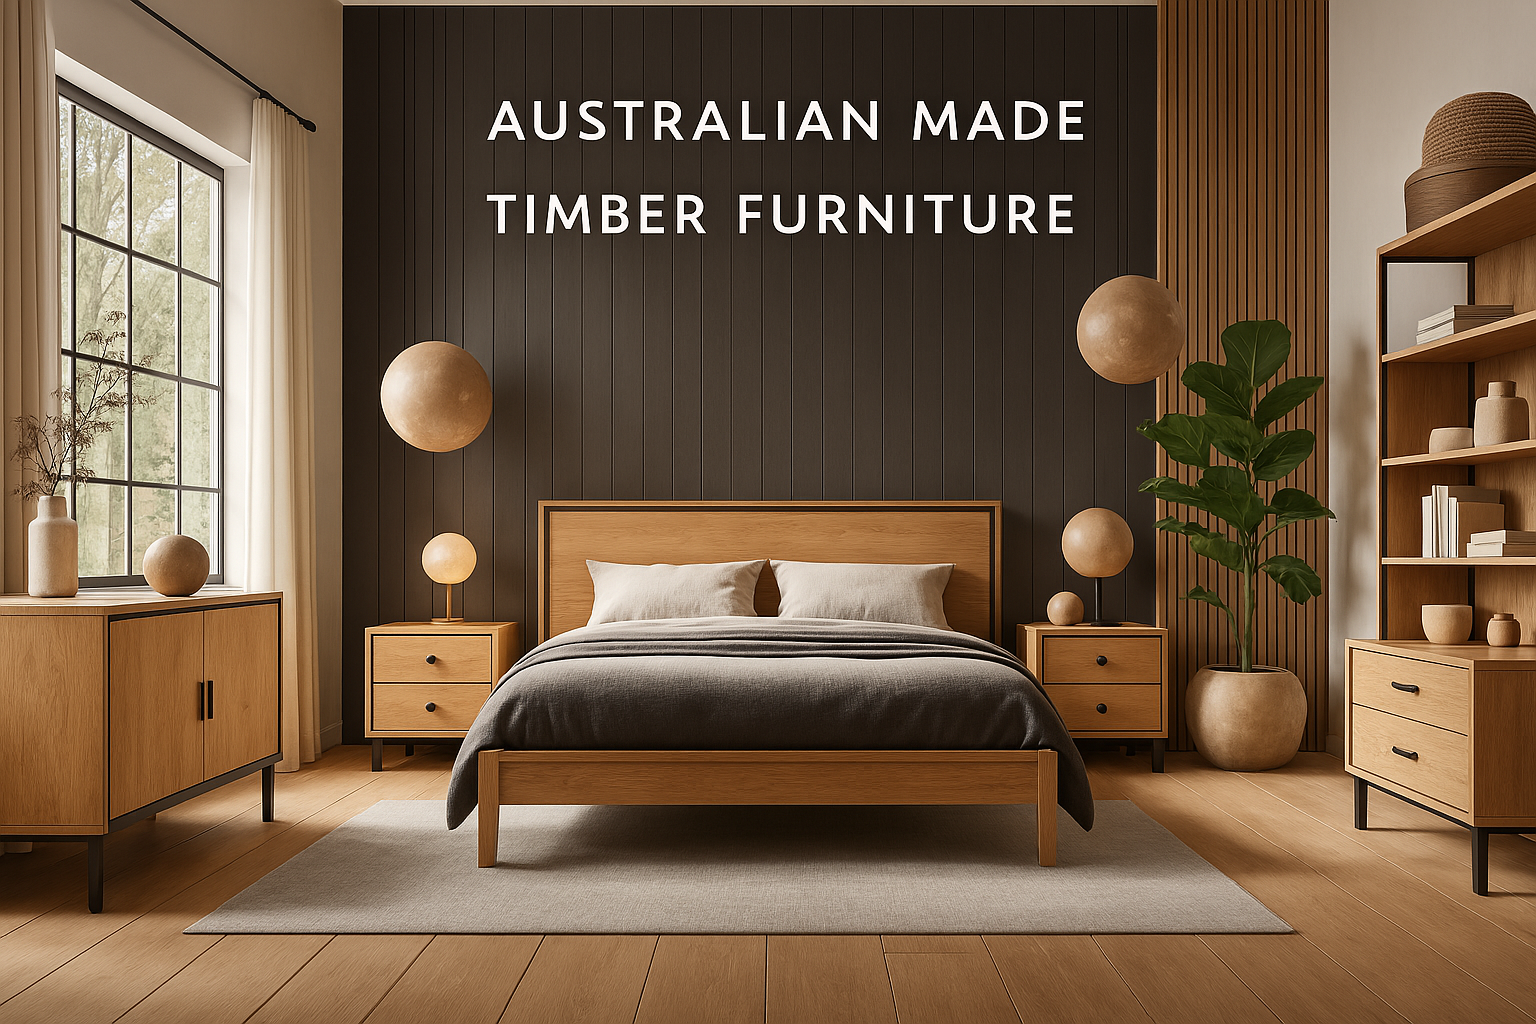
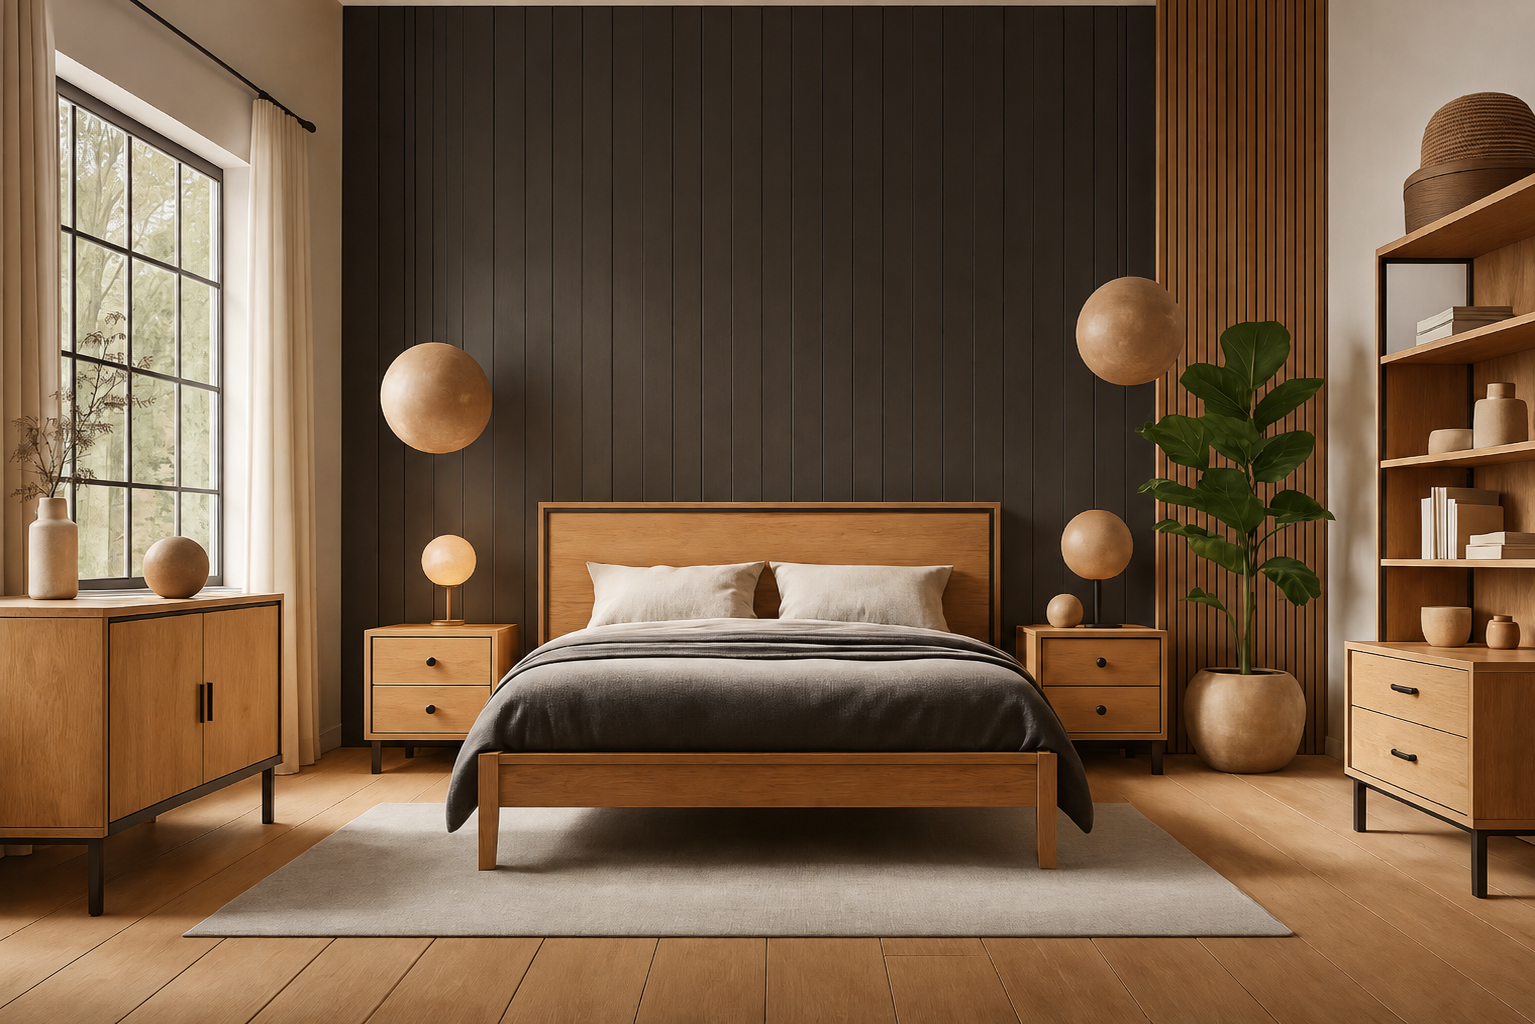
Use full hero image with reference crop

diff --git a/app/globals.css b/app/globals.css
@@ -25,7 +25,7 @@
 .confirmation-line{display:grid;grid-template-columns:120px 1fr auto;gap:24px;align-items:center;min-height:70px}.confirmation-line+ .confirmation-line{margin-top:20px}.confirmation-line img{width:120px;height:70px;object-fit:cover;border-radius:8px}.confirmation-line span{font-size:15px;font-weight:600;line-height:1.3}.confirmation-line strong{font-size:18px}.confirmation-total{display:flex;justify-content:space-between;align-items:center;margin:32px 0 22px;text-align:left;color:var(--secondary);font-size:16px}.confirmation-total strong{color:var(--ink);font-size:24px}.confirmation-card>.button{width:400px;max-width:100%;height:54px}.confirmation-page>h2{font-size:30px;margin:72px 0 28px;text-align:left}.next-steps{display:grid;grid-template-columns:repeat(3,1fr);gap:50px;text-align:left}.next-steps article{height:160px;background:var(--brand-soft);border-radius:14px;padding:20px 24px;display:flex;flex-direction:column;align-items:flex-start}.next-steps b{font-size:14px}.next-steps strong{font-size:18px;margin-top:28px}.next-steps span{font-size:13px;color:var(--secondary);margin-top:14px}
 @keyframes confirmationPop{0%,4%{opacity:0;transform:scale(.72)}29%,100%{opacity:1;transform:scale(1)}}
 @media(max-width:900px){.hero{background-position:center top}.confirmation-page{min-height:1450px;padding:38px 16px 60px}.confirmation-card{height:auto;min-height:760px;padding:34px 18px 28px;border-radius:16px}.confirmation-success{width:100px;height:100px;font-size:42px}.confirmation-card h1{font-size:30px;margin:30px 0 12px}.confirmation-email{font-size:14px;margin:22px 0 30px}.confirmation-details{padding:12px}.confirmation-line{grid-template-columns:82px 1fr auto;gap:10px;min-height:58px}.confirmation-line img{width:82px;height:58px}.confirmation-line span{font-size:11px}.confirmation-line strong{font-size:13px}.confirmation-total{margin:25px 0 20px;font-size:14px}.confirmation-total strong{font-size:20px}.confirmation-page>h2{font-size:24px;margin:52px 0 20px}.next-steps{grid-template-columns:1fr;gap:12px}.next-steps article{height:auto;min-height:120px}.next-steps strong{margin-top:14px}.next-steps span{margin-top:8px}}
-.hero{background-size:cover;background-position:center bottom;background-repeat:no-repeat;background-color:#332b28}
+.hero{background-size:cover;background-position:center center;background-repeat:no-repeat;background-color:#332b28}
 .hero-copy>div .button{border-radius:16px}
 .hero-copy .explore-cta{font-weight:400;font-size:13px}
-@media(max-width:900px){.hero{background-size:cover;background-position:center bottom}}
+@media(max-width:900px){.hero{background-size:cover;background-position:center center}}
